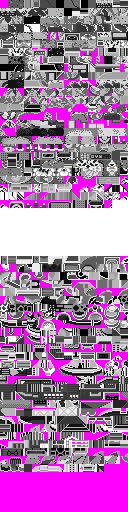
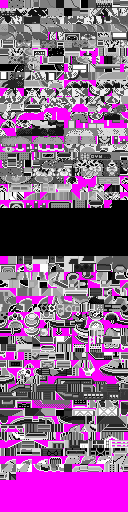
compiling secondary is working!

diff --git a/tiles_secondary.py b/tiles_secondary.py
@@ -6,6 +6,8 @@ from PIL import Image, ImageOps
 import sys
 from config import TILE_SIZE
 
+import numpy as np
+
 OUTPUT_WIDTH = 128
 OUTPUT_HEIGHT = 256
 
@@ -140,7 +142,8 @@ def create_tileset_library(tiles_png_path, palettes):
     if not os.path.exists(tiles_png_path):
         return {}
 
-    base_img = Image.open(tiles_png_path).convert("P")
+    #base_img = Image.open(tiles_png_path).convert("P")
+    base_img = Image.open(tiles_png_path)
     library = {}
 
     for pal_id, pal_data in palettes.items():
@@ -149,7 +152,7 @@ def create_tileset_library(tiles_png_path, palettes):
         rgba = version.convert("RGBA")
         new_pixels = [
 			#(r, g, b, 255) if idx == 0 else (r, g, b, a)
-			(r, g, b, a)
+			(r, g, b, 255)
 			for idx, (r, g, b, a) in zip(base_img.getdata(), rgba.getdata())
 		]
 
@@ -188,10 +191,33 @@ def load_tiles_sec(secondary_path,primary_path):
 
     # 3. FILTER & DEDUPLICATE
     # Now both sets are in GBA color space, so comparisons are accurate
-    filtered_secondary = [
-        tile for tile in secondary_tiles_raw 
-        if canonical_tile_key(tile) not in primary_canonical_keys
-    ]
+    #filtered_secondary = [
+    #    tile for tile in secondary_tiles_raw 
+    #    if canonical_tile_key(tile) not in primary_canonical_keys
+    #]
+
+    def is_uniform(tile):
+        """Returns True if all pixels in the tile are the same color."""
+        # Convert PIL Image to NumPy array if it hasn't been converted yet
+        tile_data = np.asarray(tile)
+        
+        # Check if all pixels match the top-left pixel
+        # tile_data[0, 0] is the RGB value of the first pixel
+        return np.all(tile_data == tile_data[0, 0])
+
+    # ... inside your function ...
+
+    # 3. FILTER & DEDUPLICATE
+    filtered_secondary = []
+    for tile in secondary_tiles_raw:
+        # Condition 1: Tile is not in the primary tileset
+        not_in_primary = canonical_tile_key(tile) not in primary_canonical_keys
+        
+        # Condition 2: Tile has no structure (all same color)
+        is_solid_color = is_uniform(tile)
+        
+        if not_in_primary or is_solid_color:
+            filtered_secondary.append(tile)
 
     # Collect unique tiles (handles Magenta tile at index 0)
     unique_secondary_tiles = collect_unique_tiles(filtered_secondary)

diff --git a/main.py b/main.py
@@ -23,7 +23,7 @@ compile_primary(input_dir,out_dir)
 #input_dir = os.path.expandvars("$HOME/Documents/pkmndecomps/pyrytiles/lightplat2/output")
 #out_dir = os.path.expandvars("$HOME/Documents/pkmndecomps/pyrytiles/lightplat2/compiled")
 #compile_primary(input_dir,out_dir,optimal=True)
-#compile_primary(path="Test/EmeraldGeneral/Decompiled",out_dir="Test/EmeraldGeneral/Recompiled",optimal=False)
+#compile_primary(path="Test/EmeraldGeneral/Decompiled",out_dir="Test/EmeraldGeneral/Recompiled",optimal=True)
 
 '''
 input_dir_secondary = os.path.expandvars("$HOME/Documents/pkmndecomps/pyrytiles/sec_comp_test1")
@@ -34,4 +34,5 @@ compile_secondary(input_dir_secondary, output_dir, input_dir_primary, optimal=Fa
 '''
 
 #decompile_tileset(primary_path="Test/EmeraldGeneral", secondary_path="Test/Slateport", out_dir="Test/Slateport/DecompiledEmeraldOriginal")
+compile_primary(path="Test/EmeraldGeneral/Decompiled",out_dir="Test/EmeraldGeneral/Recompiled",optimal=True)
 compile_secondary(path="Test/Slateport/DecompiledEmeraldOriginal",out_dir="Test/Slateport/Recompiled-New",path_primary="Test/EmeraldGeneral/Recompiled",optimal=False)

diff --git a/compilers.py b/compilers.py
@@ -63,8 +63,6 @@ def compile_secondary(path, out_dir, path_primary=None, optimal=False):
 
         img, tiles, assignment, full_assignment, pals_primary = result
 
-        #img.save(os.path.join(out_dir, "debug.png"))
-
         os.makedirs(out_dir, exist_ok=True)
         os.makedirs(out_dir+"/palettes", exist_ok=True)
 
